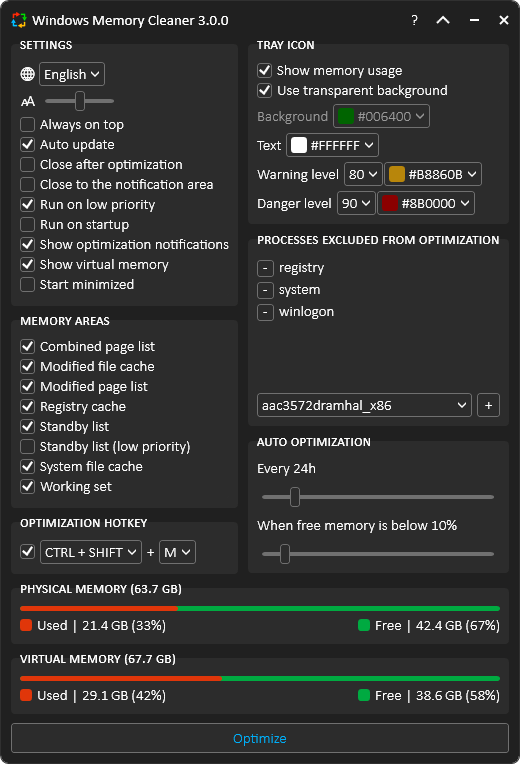
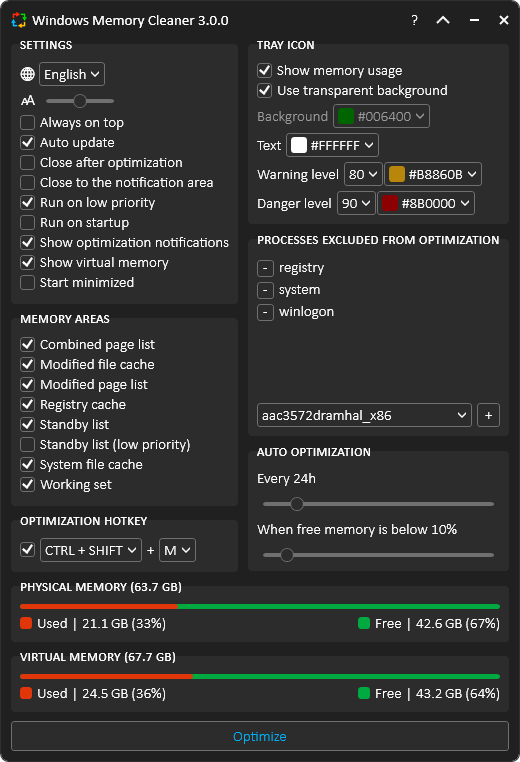
UI, code and documentantion updates

diff --git a/src/App.xaml b/src/App.xaml
@@ -612,8 +612,7 @@
                     <Setter.Value>
                         <ControlTemplate TargetType="{x:Type Slider}">
                             <Grid VerticalAlignment="Center">
-                                <Border x:Name="borderBackground" 
-                                        Background="{TemplateBinding Foreground}"
+                                <Border Background="{TemplateBinding Foreground}"
                                         CornerRadius="3"
                                         Height="4"
                                         Margin="6, 0" />
@@ -630,8 +629,8 @@
                                         <Thumb Background="{TemplateBinding Background}"
                                                BorderBrush="{TemplateBinding BorderBrush}"
                                                BorderThickness="1"
-                                               Height="20"
-                                               Width="10" />
+                                               Height="14"
+                                               Width="14" />
                                     </Track.Thumb>
                                 </Track>
                             </Grid>
@@ -660,7 +659,7 @@
                                             Background="{TemplateBinding Background}"
                                             BorderBrush="{TemplateBinding BorderBrush}"
                                             BorderThickness="{TemplateBinding BorderThickness}"
-                                            CornerRadius="3" />
+                                            CornerRadius="9" />
                                 </ControlTemplate>
                             </Setter.Value>
                         </Setter>

diff --git a/src/View/Window/MainWindow.xaml b/src/View/Window/MainWindow.xaml
@@ -212,7 +212,7 @@
                           Margin="0, 5, 5, 0">
                     <StackPanel>
                         <StackPanel Orientation="Horizontal"
-                                    Margin="0, 0, 0, 5"
+                                    Margin="0, 0, 0, 6"
                                     VerticalAlignment="Center">
                             <TextBlock FontSize="14"
                                        Margin="-2, 0, 2, 0"

diff --git a/src/Model/Localization.cs b/src/Model/Localization.cs
@@ -25,10 +25,10 @@ namespace WinMemoryCleaner
         private string _no;
         private string _optimizationHotkey, _optimize, _optimized;
         private string _physicalMemory, _processExclusionList;
-        private string _reason, _registryCache, _remove, _repositoryInfo, _reset, _resetConfirmation, _runOnLowPriority, _runOnStartup;
+        private string _reason, _registryCache, _remove, _reset, _resetConfirmation, _runOnLowPriority, _runOnStartup;
         private string _schedule, _seconds, _securityWarning, _settings, _showMemoryUsage, _showOptimizationNotifications, _showVirtualMemory, _standbyList, _standbyListLowPriority, _startMinimized, _systemFileCache;
         private string _text, _trayIcon;
-        private string _updatedToVersion, _used, _useHotkey, _useTransparentBackground;
+        private string _updatedToVersion, _used, _useTransparentBackground;
         private string _virtualMemory;
         private string _warningLevel, _whenFreeMemoryIsBelow, _workingSet;
         private string _yes;
@@ -346,13 +346,6 @@ namespace WinMemoryCleaner
         }
 
         [DataMember]
-        public string RepositoryInfo
-        {
-            get { return _repositoryInfo; }
-            private set { _repositoryInfo = value.Capitalize(); }
-        }
-
-        [DataMember]
         public string Reset
         {
             get { return _reset; }
@@ -490,13 +483,6 @@ namespace WinMemoryCleaner
         {
             get { return _used; }
             private set { _used = value.Capitalize(); }
-        }
-
-        [DataMember]
-        public string UseHotkey
-        {
-            get { return _useHotkey; }
-            private set { _useHotkey = value.Capitalize(); }
         }
 
         [DataMember]

diff --git a/README.md b/README.md
@@ -33,7 +33,7 @@ This free RAM cleaner uses native Windows features to efficiently clear memory a
 
 ## 🔐 Trust & Integrity
 
-We prioritize transparency and user safety. Files are digitally signed through [SignPath.io](https://about.signpath.io/product/open-source) using a free certificate provided under the [SignPath Terms of Use](https://signpath.org/terms). The certificate was granted to this project in recognition of its popularity and public value in the open-source community. This process ensures that distributed files are authentic and have not been tampered with. This signing was introduced in version **3.0.0**
+We prioritize transparency and user safety. Since version 3.0.0, we have been digitally signing our files through [SignPath.io](https://about.signpath.io/product/open-source) using a free certificate provided under the [SignPath Terms of Use](https://signpath.org/terms). The project received the certificate in recognition of its popularity and public value in the open-source community. This process ensures that we distribute authentic files that have not been tampered with. By doing this, we will build trust with Microsoft Defender SmartScreen over time, and maybe someday we will obliterate that "Windows protected your PC" warning.
 
 ### 🔍 How to verify
 
@@ -110,7 +110,7 @@ By the end, to ensure transparency and safety, each new version is submitted for
 - `Close after optimization` Closes the app after optimization
 - `Close to the notification area` Minimize the app to the system tray when clicking the close (X) button
 - `Run on low priority` It limits the app's resource usage by reducing the process priority and ensuring it runs efficiently. It might increase the optimization time, but it helps if your Windows freezes during it
-- `Run on startup` Runs the app after the system boots up. It creates an entry on Windows **Task Scheduler** and Windows Registry path **SOFTWARE\WOW6432Node\Microsoft\Windows\CurrentVersion\Run**
+- `Run on startup` Runs the app after the system boots up. It creates a task on Windows **Task Scheduler**
 - `Show optimization notifications` Sends a message to the notification area after optimization. It includes the approximate memory released
 - `Show virtual memory` It also monitors the virtual memory usage
 - `Start minimized` The app will start minimized to the system tray. Single-click on the icon to restore
@@ -185,16 +185,16 @@ The app generates logs in the Windows Event
 
 ### What are the project requirements?
 
-- Minimalistic user interface
+- Minimalistic user interface using (WPF) and single-page application (SPA) architecture
 - Model-View-ViewModel (MVVM) design pattern
-- No third library dependencies
-- Portable (Single .exe file)
+- No third-party dependencies
+- Portable (Single executable file)
 - Right-to-left language support and bidirectional text
-- S.O.L.I.D. Principles of Object-Oriented
+- Use of S.O.L.I.D. principles in object-oriented programming (limited due to the legacy .NET 4.0 framework)
 - Use of Windows native methods for memory management
 - Windows Event to save logs
 - Windows Presentation Foundation (WPF) for user interface
-- Windows Registry to save user settings
+- Windows retro compatibility (Windows XP, Server 2003, and later)
 
 ### Where does the app save the settings?
 
@@ -204,7 +204,7 @@ They are saved in the Windows registry path `Computer\HKEY_LOCAL_MACHINE\Softwar
 
 One of the reasons for this **false alarm** is that the application adds entries to the registry and creates a scheduled task to run at startup. Windows doesn't suggest letting applications with administrator privileges run at startup. I understand that, but this is the way to do it. I apologize, but the application cannot perform a deep memory clean without administrator privileges.
 
-That's a common issue that persists every time a new app version is released. I constantly submit the executable to Microsoft. Usually, it takes up to 72 hours for Microsoft to remove the detection.
+That's a common issue that persists with every new app version. I constantly submit the executable to Microsoft. Usually, it takes up to 72 hours for Microsoft to remove the detection.
 It helps if more users [submit the app for malware analysis](https://www.microsoft.com/en-us/wdsi/filesubmission)
 
 Meanwhile, as a workaround, you can [add an exclusion to Windows Security](https://support.microsoft.com/en-us/windows/add-an-exclusion-to-windows-security-811816c0-4dfd-af4a-47e4-c301afe13b26)
